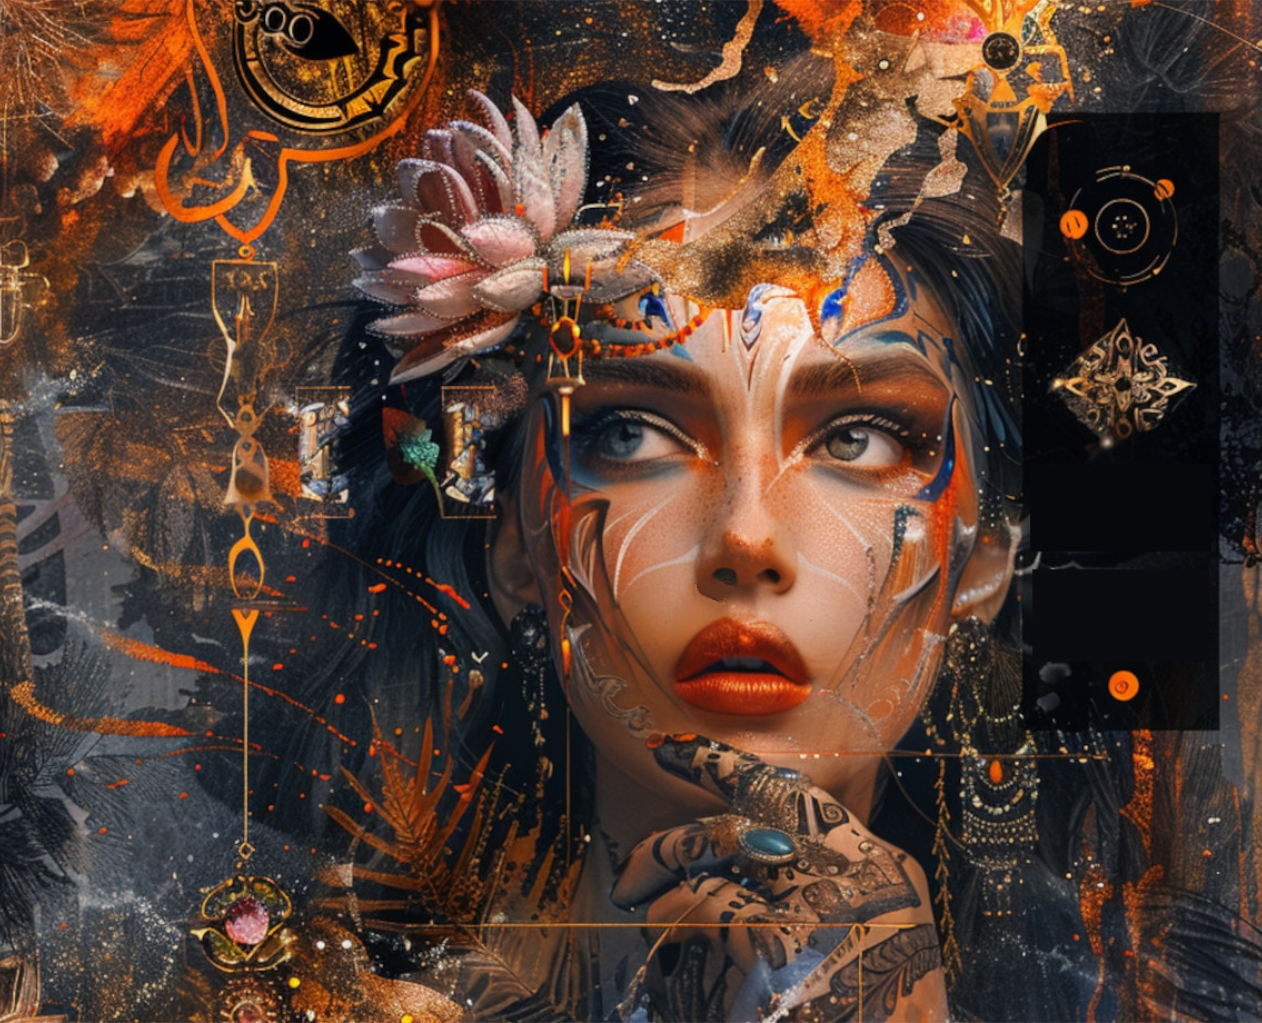
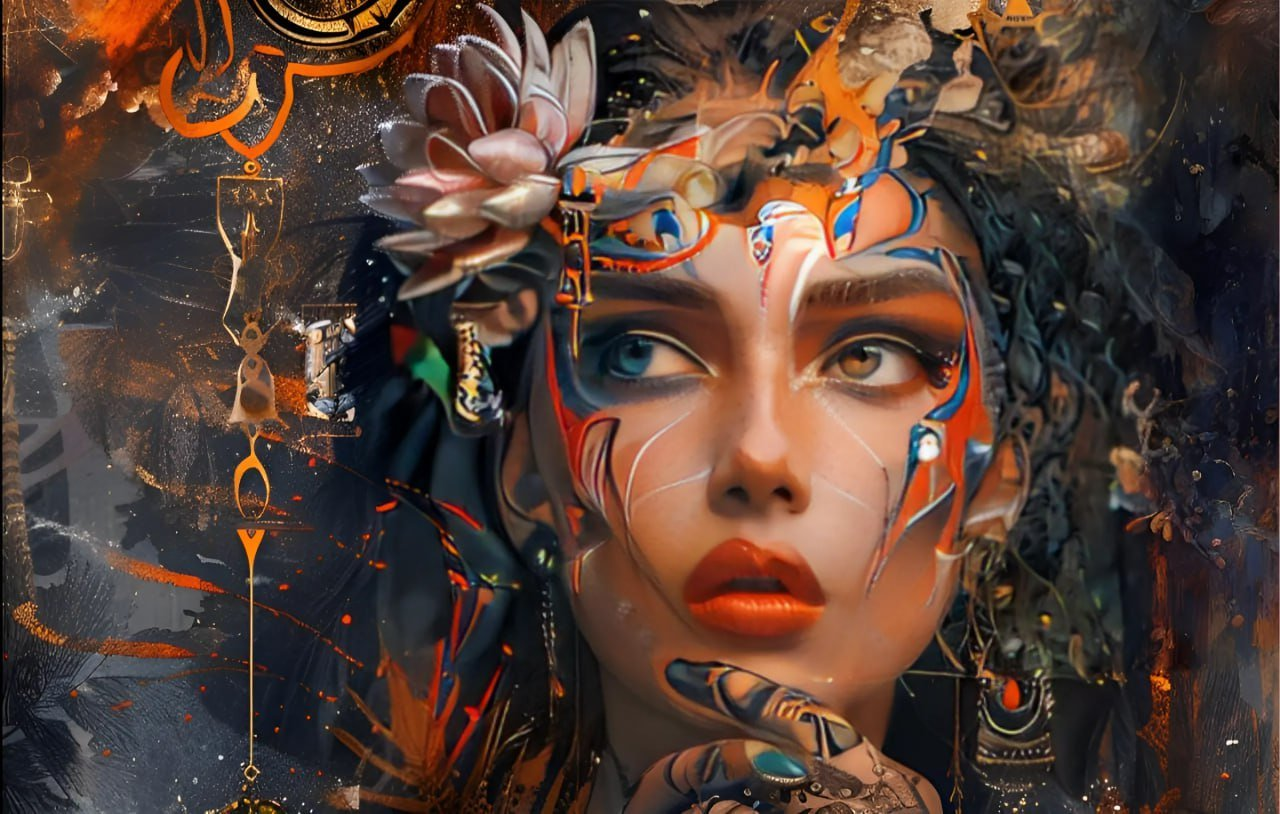
Заменил фон домашней страницы

diff --git a/template/css/home.css b/template/css/home.css
@@ -158,7 +158,7 @@ header>h1 {
 .dash {
     display: flex;
     flex-wrap: wrap;
-    background-image: url(../img/bg-home.jpeg);
+    background-image: url(../img/bg-home.jpg);
     background-repeat: no-repeat;
     background-size: cover;
     text-align: center;
